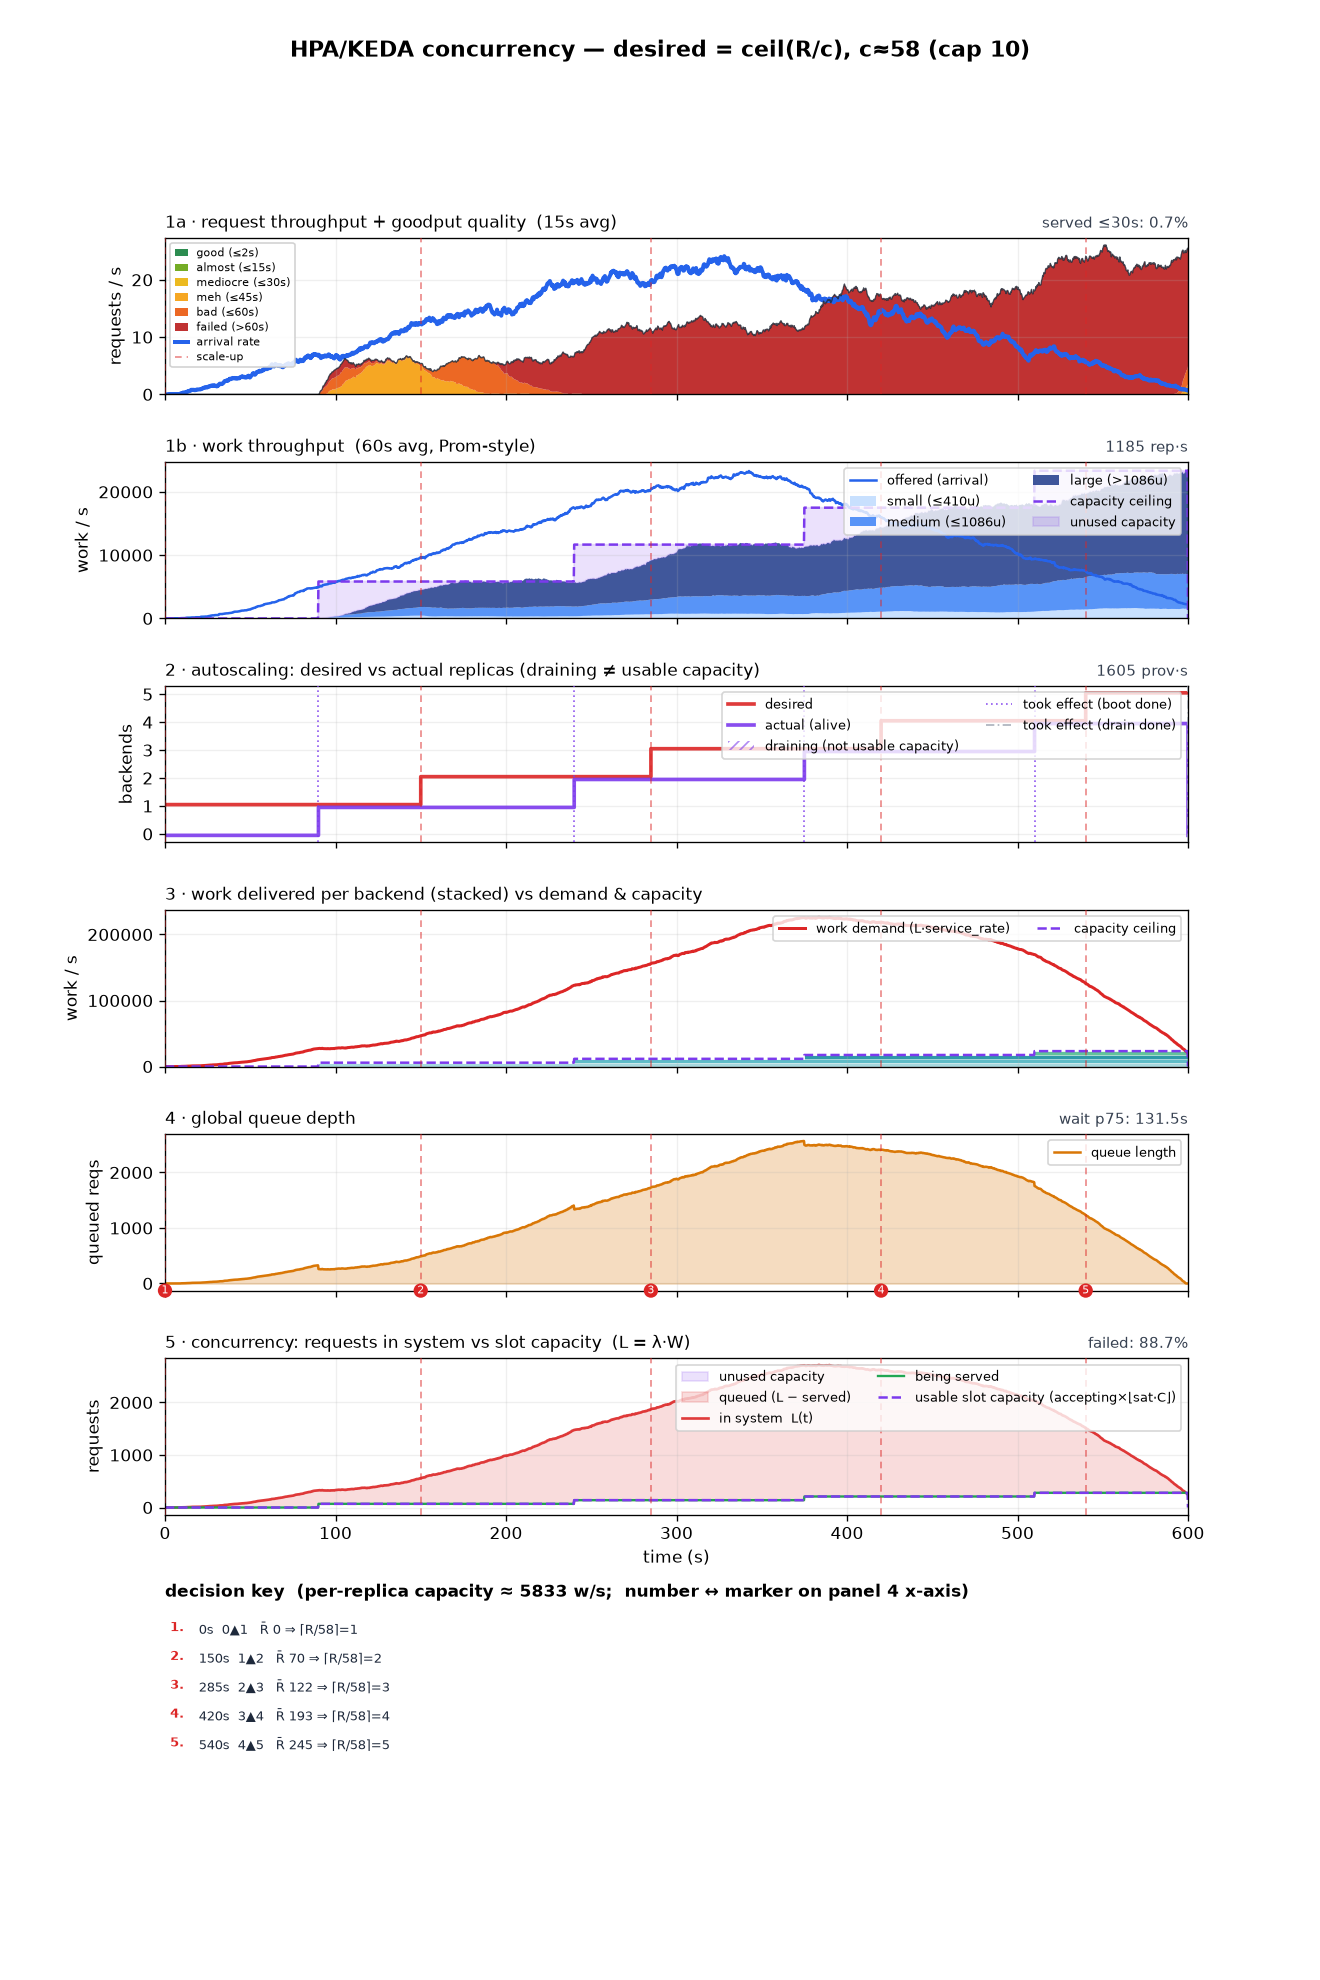
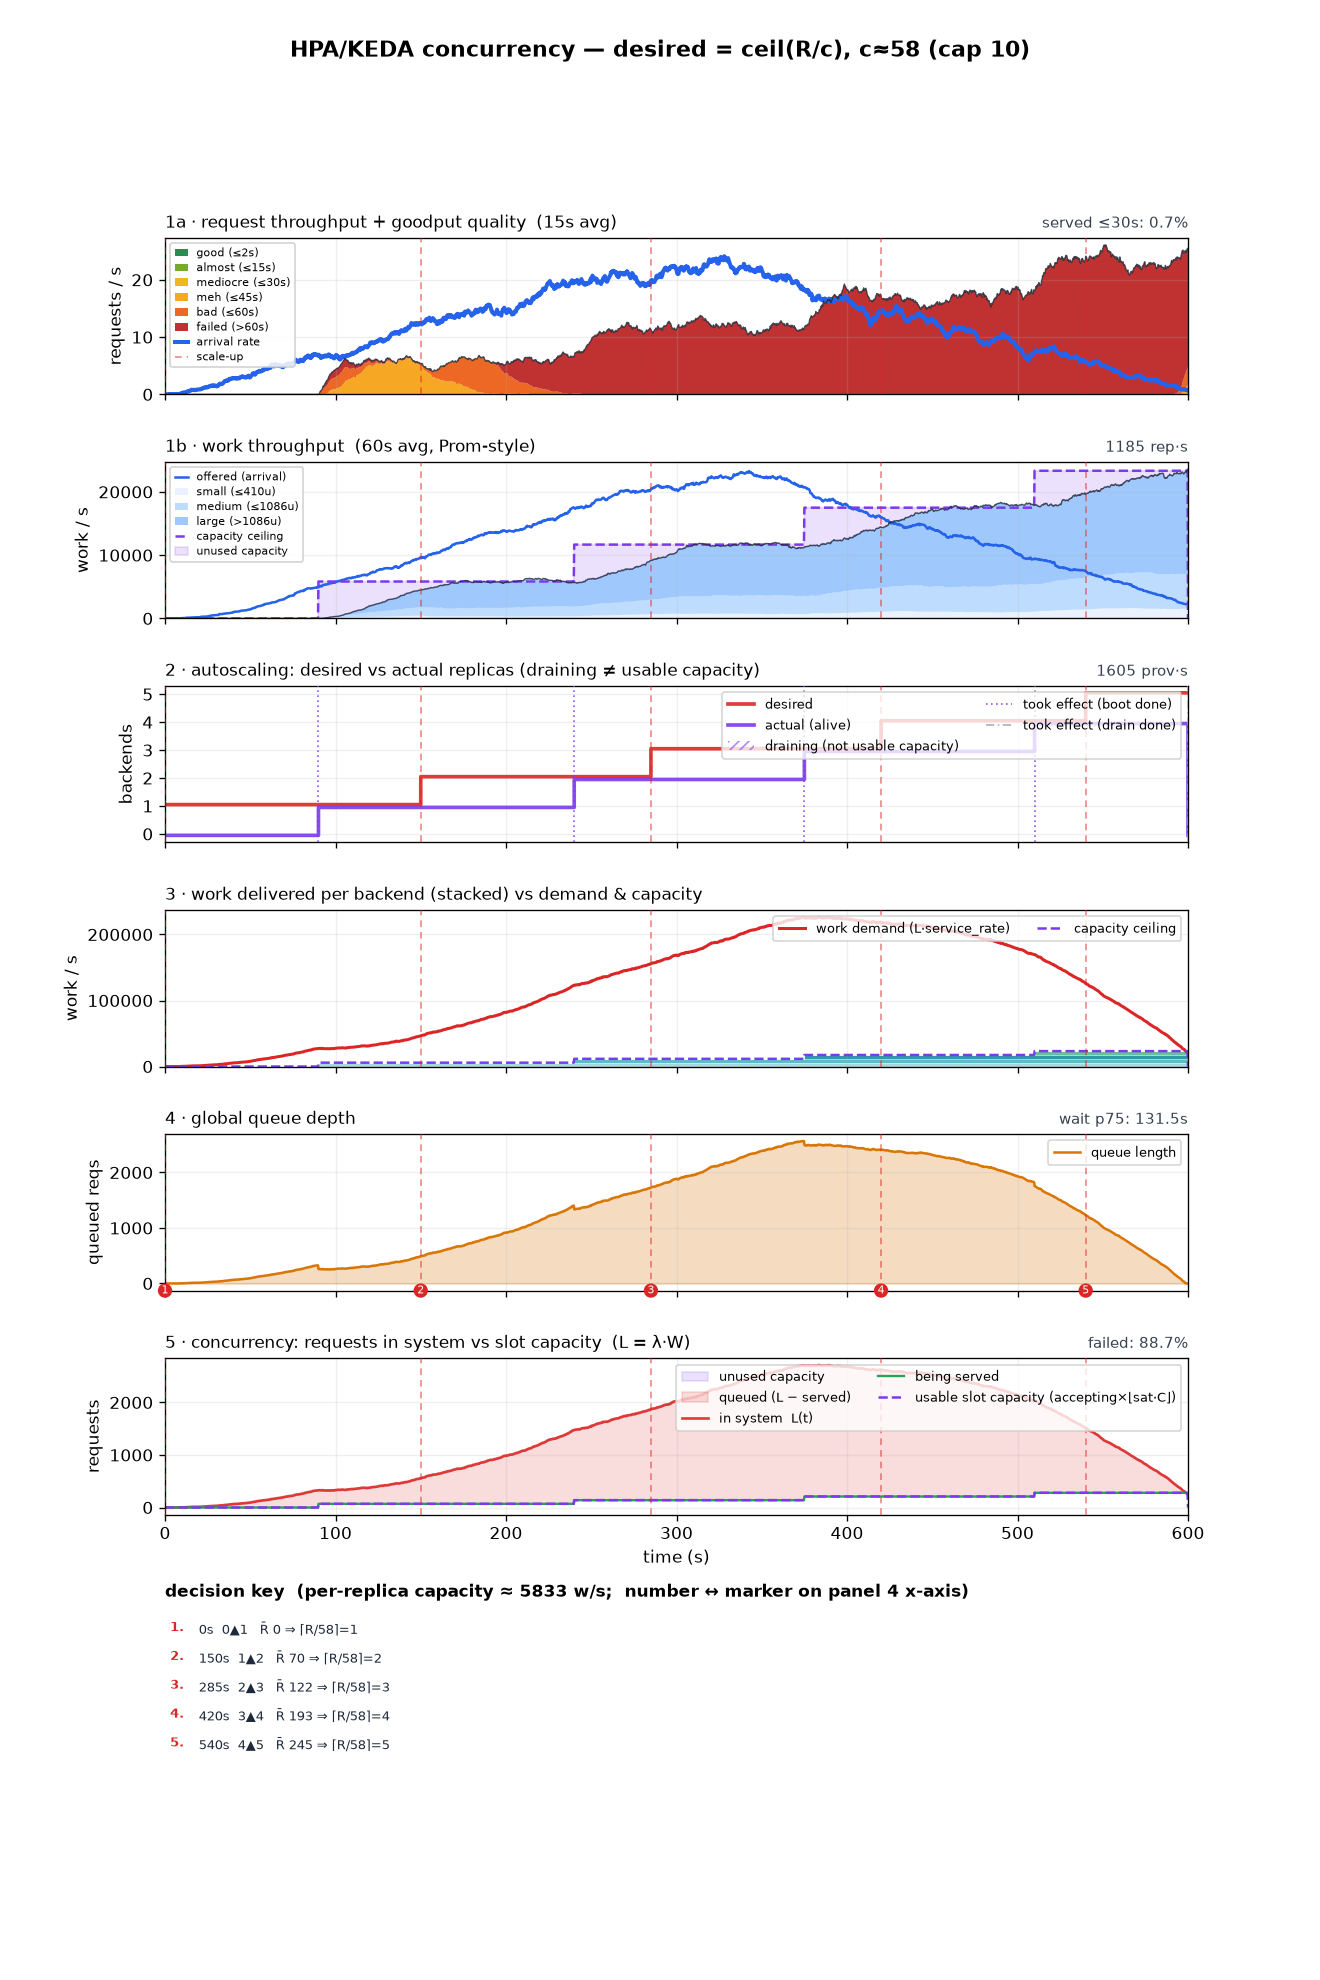
scratch(autoscaling-viz): p1b polish — lighter size shades, stack-top outline, left legend
Panel 1b (work composition by request size) was visually busy after the
size-band stackplot landed:
- SIZE_SHADES lightened to pastels (#dbeafe/#93c5fd/#60a5fa) so the stack
  no longer competes with the saturated arrival/capacity overlay lines.
- Stack alpha 0.85 -> 0.6; added a thin dark outline tracing the total
  completed-work curve (stack top), matching panel 1a's departure outline.
- Panel 1b legend moved to the narrow upper-left style panel 1a uses, so
  the stacked-band key no longer sits over the ramp data.

Regenerated all 8 scenario PNGs.

Changed region(s): [[0.2795, 0.2157, 0.9008, 0.3389], [0.1242, 0.2157, 0.2174, 0.2773]]

diff --git a/plots.py b/plots.py
@@ -55,9 +55,11 @@ BAND_SHADES = ["#a7d8de", "#5fbcc7", "#2f9aa8", "#63c39a", "#9bd8b0"]
 # not normalised by request size). 6 colours: good/almost/mediocre/meh/bad/failed.
 GP_COLORS = ["#15803d", "#65a30d", "#eab308", "#f59e0b", "#ea580c", "#b91c1c"]
 
-# work COMPOSITION by request size (panel 1b): a light->dark blue ramp, small->large
-# — distinct from GP_COLORS (goodput green->red) and BAND_SHADES (per-pod teal).
-SIZE_SHADES = ["#bfdbfe", "#3b82f6", "#1e3a8a"]
+# work COMPOSITION by request size (panel 1b): a light pastel blue ramp, small->large
+# — distinct from GP_COLORS (goodput green->red) and BAND_SHADES (per-pod teal). Kept
+# light (used at low alpha too) since panel 1b already carries arrival/capacity lines
+# in saturated blue/purple — a heavy stack would compete with them.
+SIZE_SHADES = ["#dbeafe", "#93c5fd", "#60a5fa"]
 
 
 def _changes(series):
@@ -191,7 +193,11 @@ def render(ts: dict, title: str, path: str):
     # shows how much of the delivered work came from large vs small items.
     ax[1].plot(g, ts["arr_w"], color=C_ARR, label="offered (arrival)")
     ax[1].stackplot(g, *ts["size_bands"], colors=SIZE_SHADES, labels=ts["size_labels"],
-                    alpha=0.85, edgecolor="none")
+                    alpha=0.6, edgecolor="none")
+    # thin dark outline tracing the TOTAL completed-work curve (stack top), same
+    # treatment as panel 1a's departure outline — not per-band edges.
+    dep_total_w = [sum(v) for v in zip(*ts["size_bands"])]
+    ax[1].plot(g, dep_total_w, color="#1f2937", lw=0.8, alpha=0.8, zorder=2.5)
     ax[1].plot(g, ts["capacity_work"], color=C_CAP, ls="--", label="capacity ceiling")
     # shade the headroom between what was completed and the ceiling: capacity you
     # paid for but did not use (only where the ceiling sits above completions).
@@ -315,8 +321,8 @@ def render(ts: dict, title: str, path: str):
     for a in ax:
         a.grid(True, alpha=0.2)                       # tick-aligned gridlines
         _mark_decisions(a, decisions, label=(a is ax[0]))
-        if a is ax[0]:
-            # panel 1a carries the busy goodput-band key; keep it narrow (single
+        if a in (ax[0], ax[1]):
+            # panels 1a/1b carry a busy stacked-band key; keep it narrow (single
             # column) and tucked top-left so it never sits over the ramp data.
             a.legend(loc="upper left", fontsize=6.5, ncol=1,
                      labelspacing=0.3, handlelength=1.2, borderpad=0.4,
